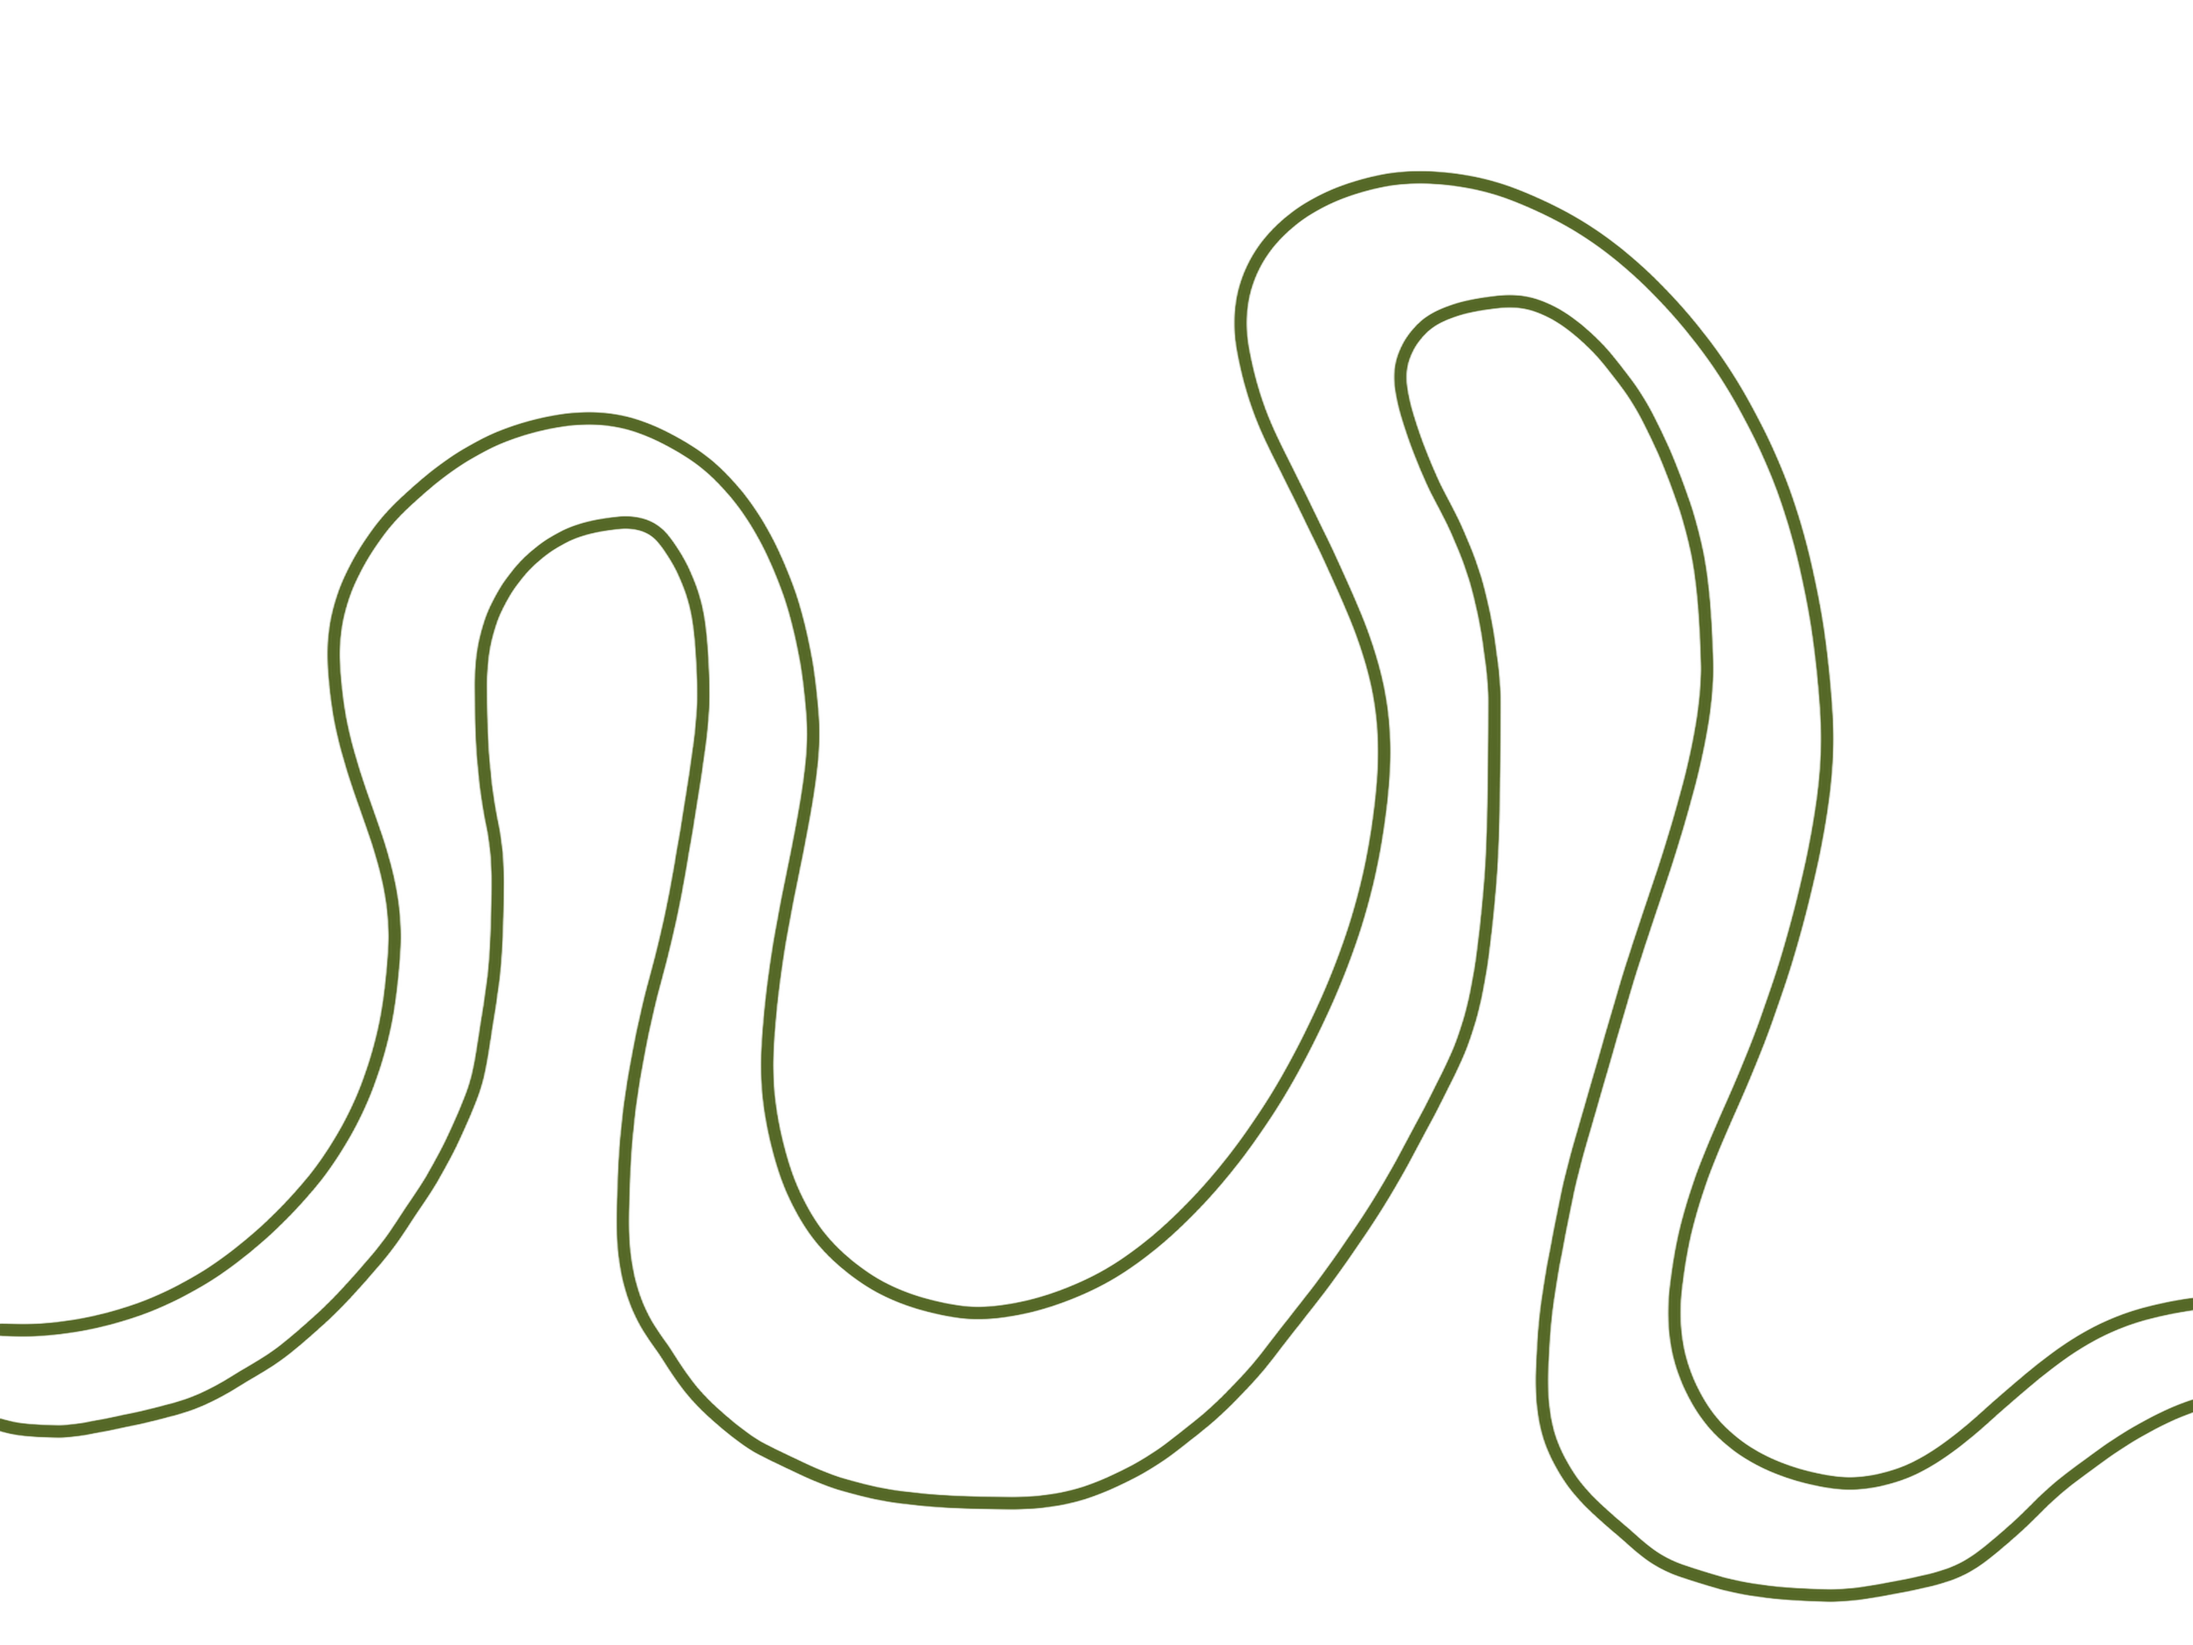
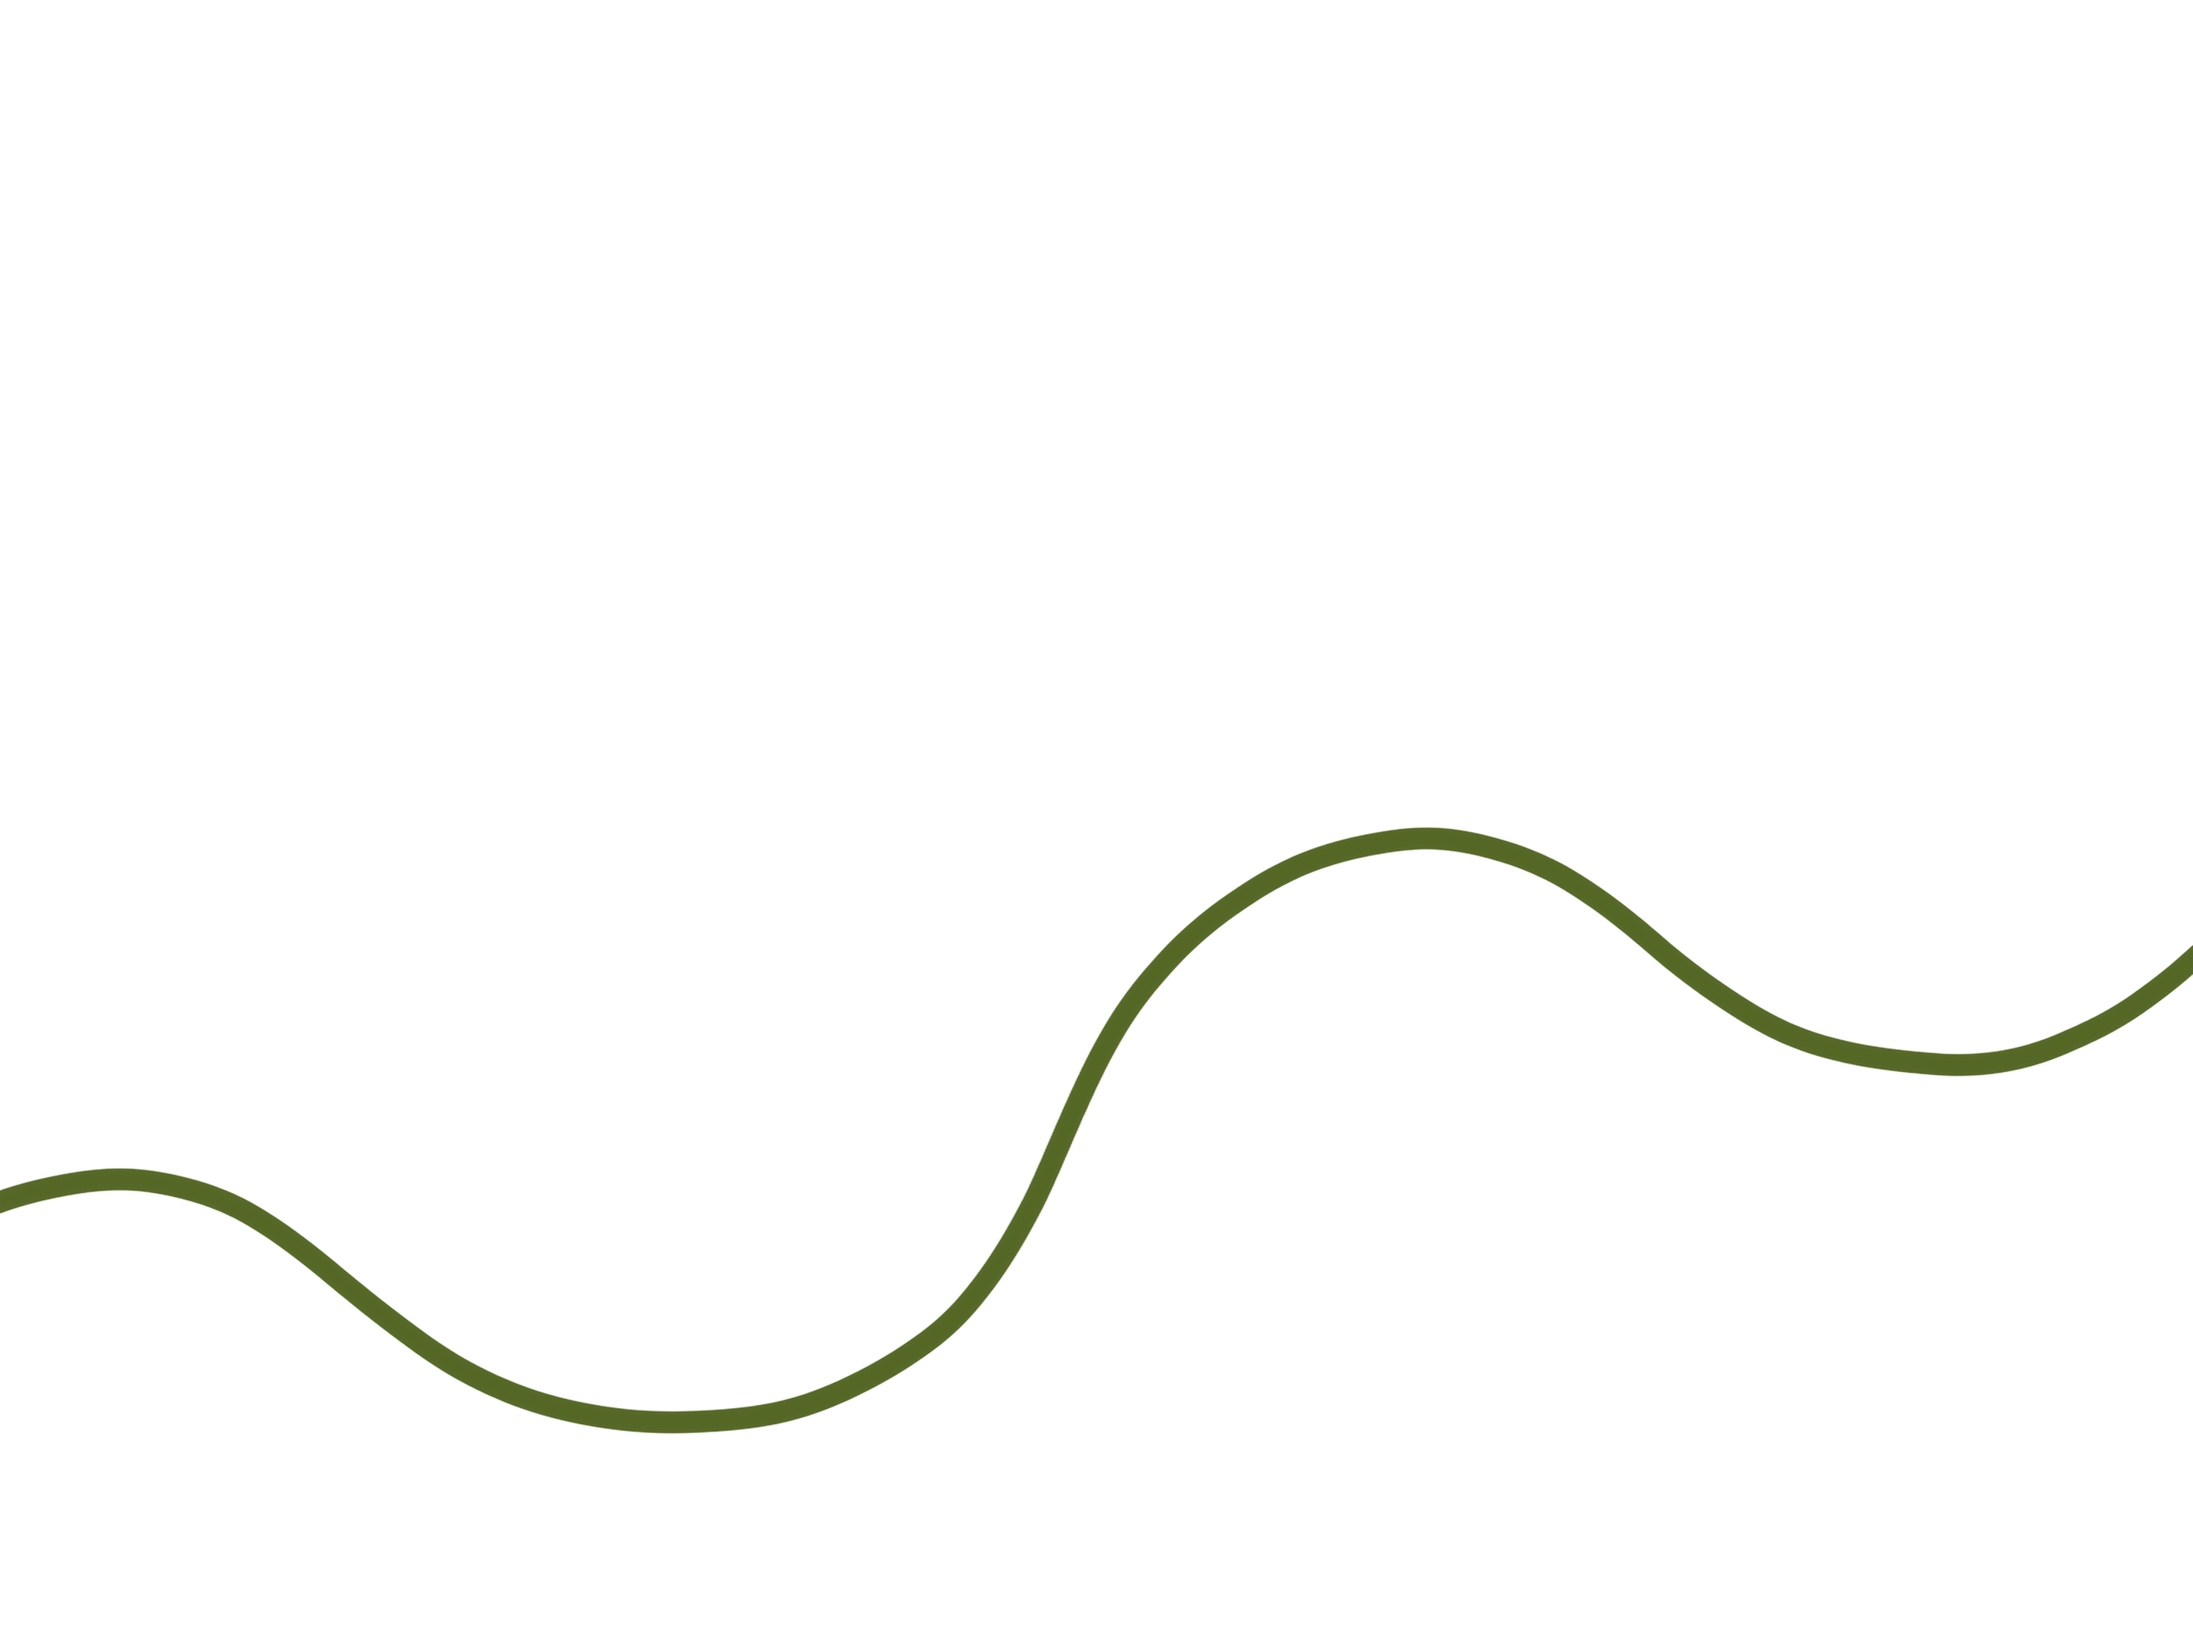
justering af kontakt sidens knap container og nye baggrunde på siderne

diff --git a/src/main.css b/src/main.css
@@ -127,6 +127,7 @@
   align-items: center;
   gap: 24px;
   width: 100%;
+  height: 100px;
   margin-top: 1rem;
 }
 
@@ -147,6 +148,7 @@
   letter-spacing: var(--spacing);
   text-decoration: none;
   color: var(--text);
+  z-index: 5;
 }
 
 #knap:hover {
